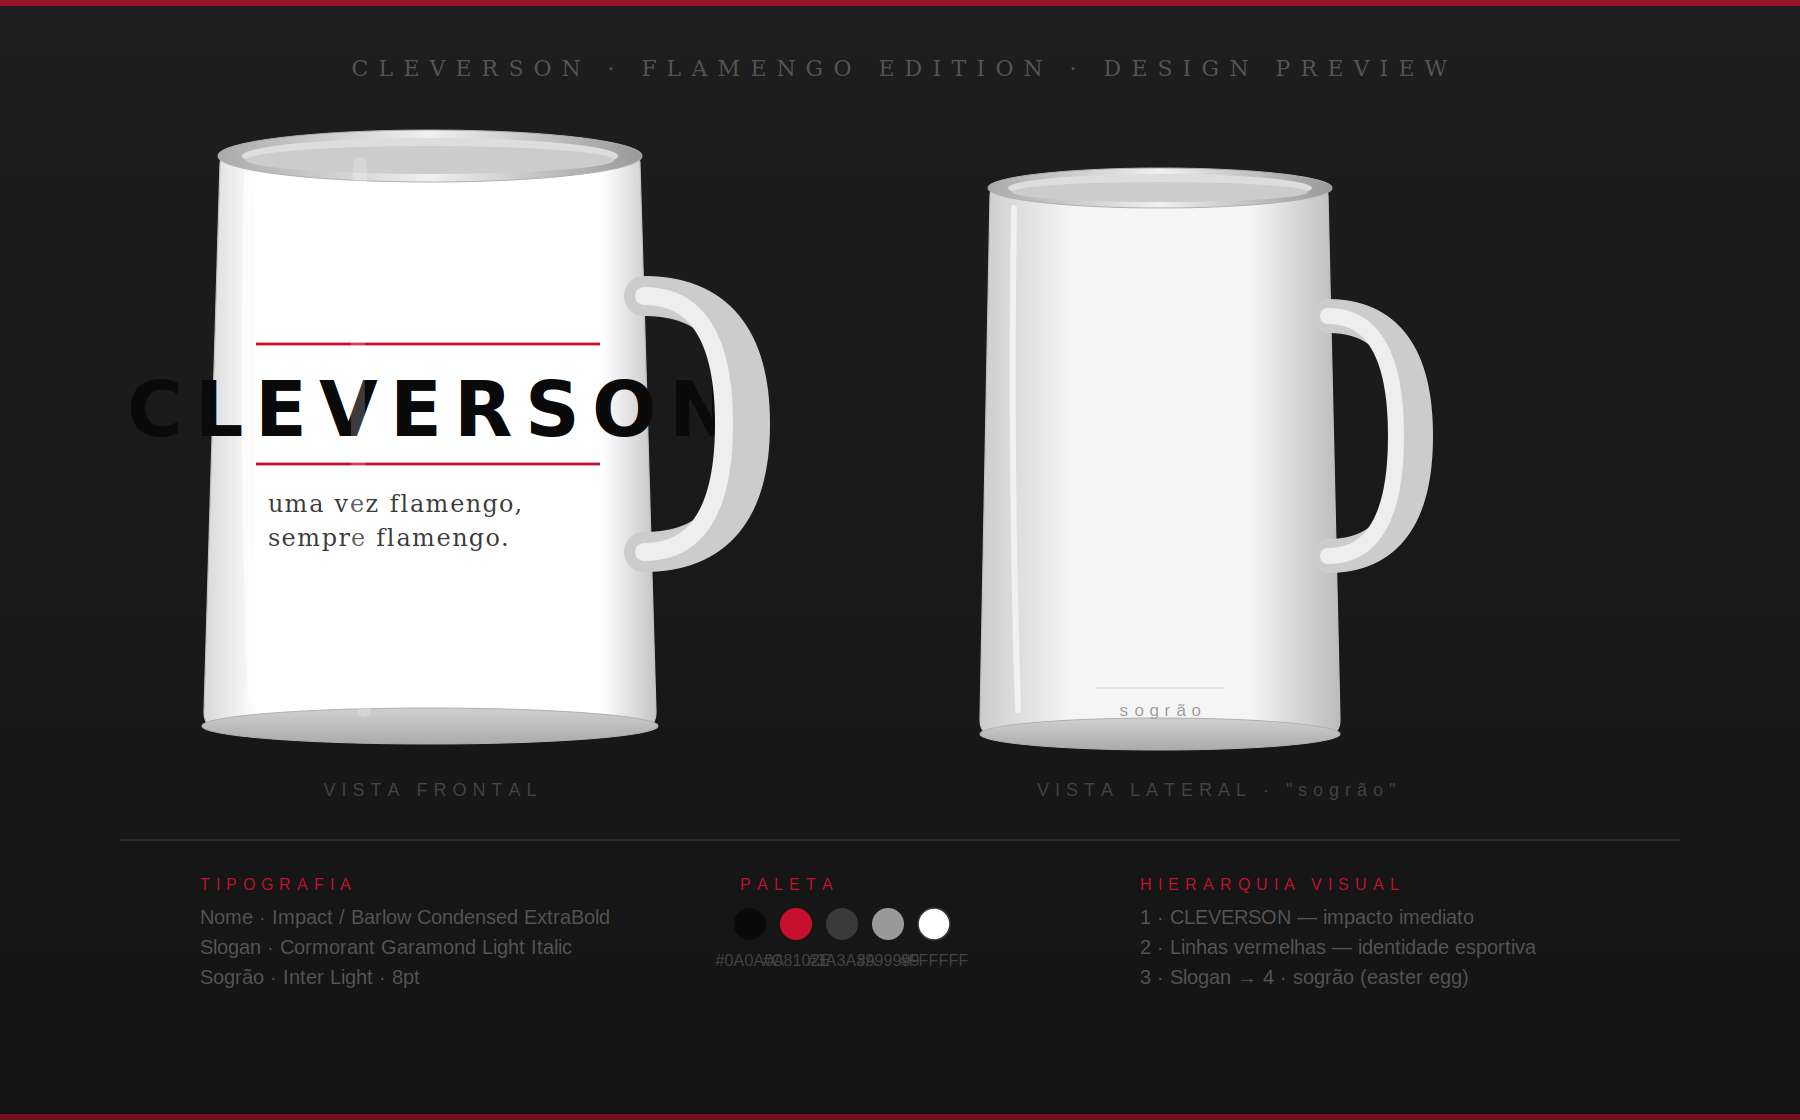
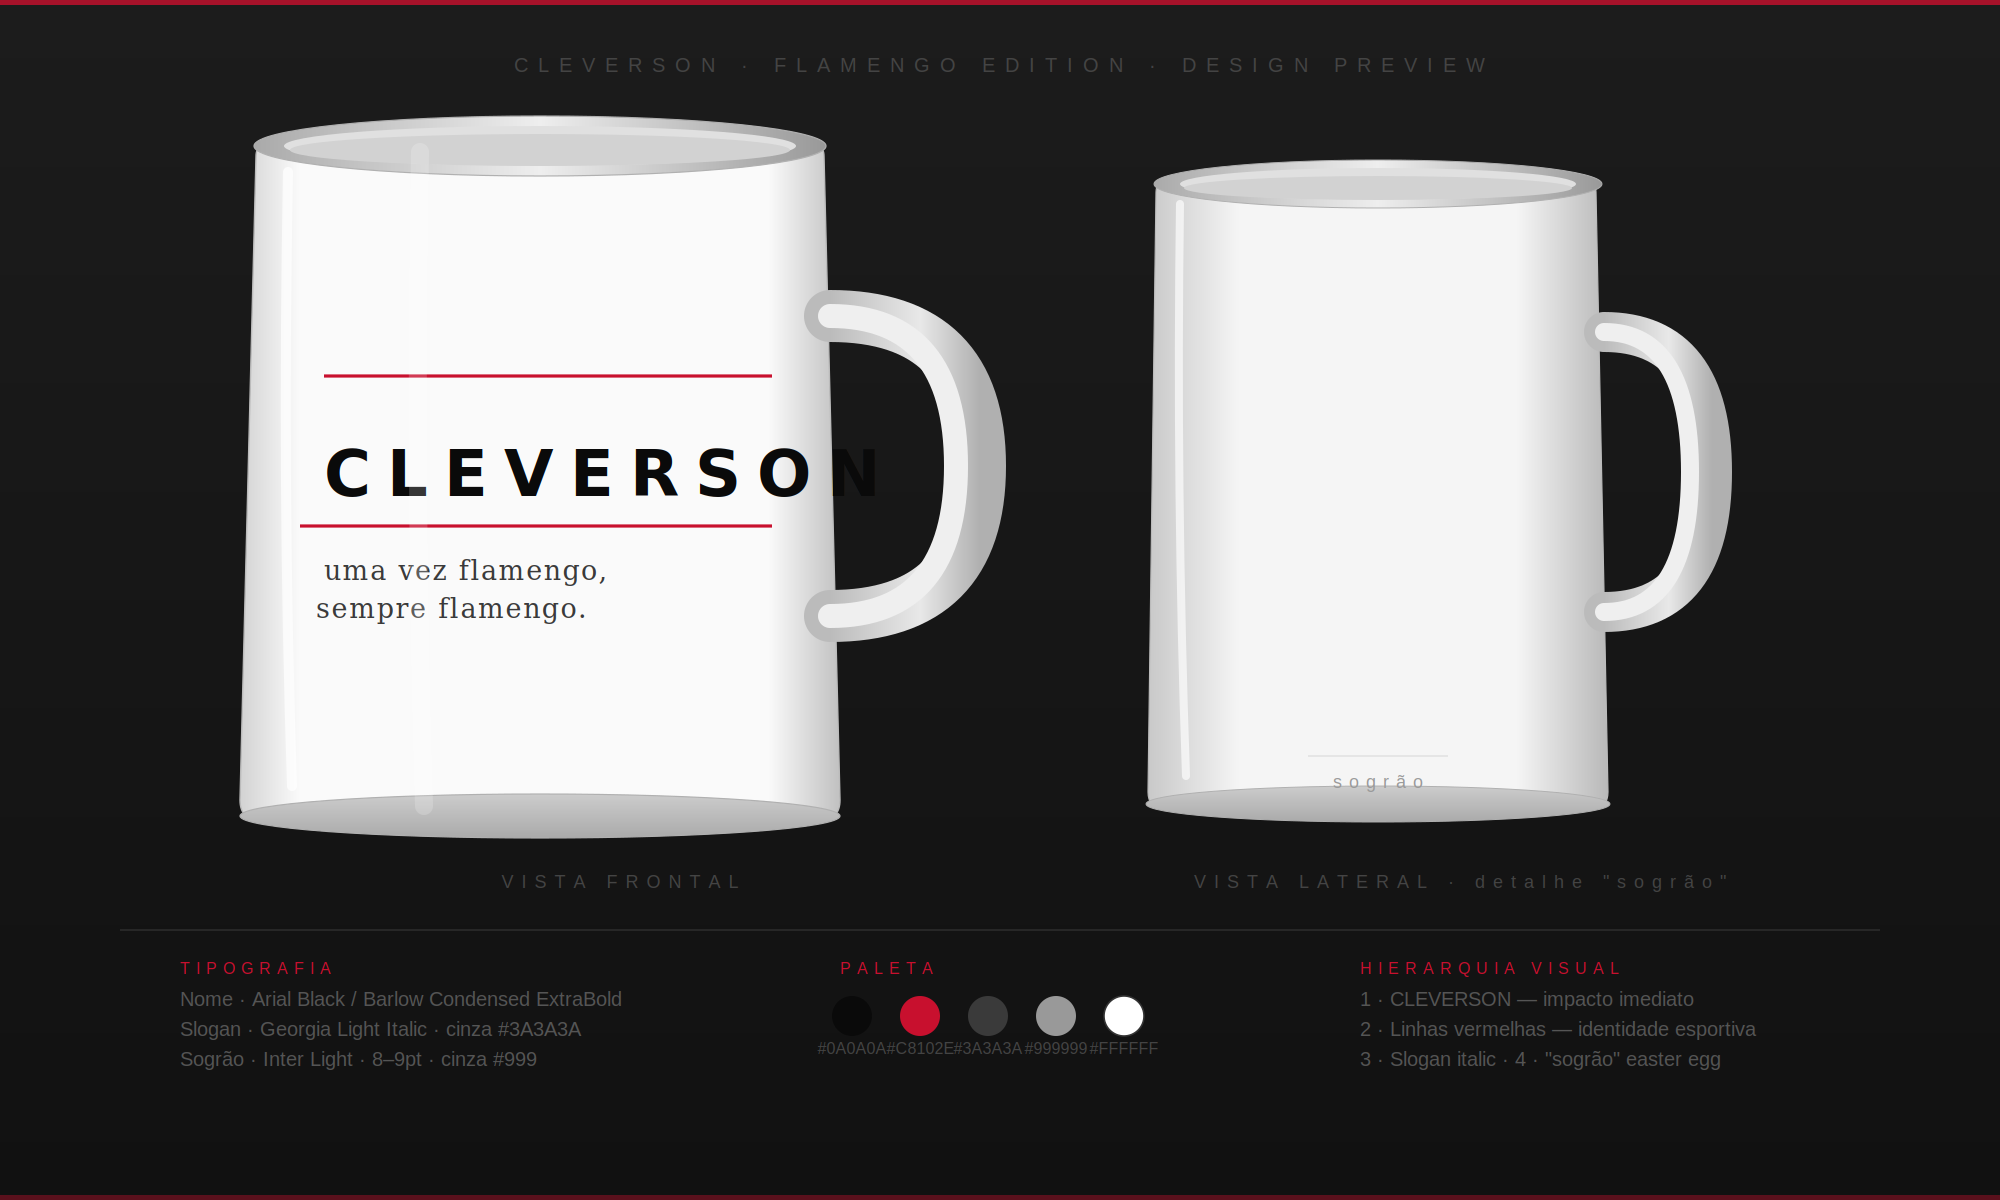
Fix CLEVERSON text positioning and sizing on mug preview
Adjusted font size to 32px with letter-spacing 8, switched to
left-aligned anchor at x=62 to ensure full name is visible
within the mug body without clipping.

https://claude.ai/code/session_01CgbMjsKx6FZFP1Rhionp3S

diff --git a/gerar_caneca.py b/gerar_caneca.py
@@ -1,216 +1,238 @@
 import cairosvg
-from PIL import Image, ImageDraw, ImageFont
-import io, os
 
-# SVG completo da caneca — frente + lateral + especificações
 SVG = """<?xml version="1.0" encoding="UTF-8"?>
-<svg width="900" height="560" viewBox="0 0 900 560"
-     xmlns="http://www.w3.org/2000/svg"
-     xmlns:xlink="http://www.w3.org/1999/xlink">
-
+<svg width="1000" height="600" viewBox="0 0 1000 600"
+     xmlns="http://www.w3.org/2000/svg">
   <defs>
-    <!-- fundo escuro -->
+    <!-- fundo -->
     <linearGradient id="bg" x1="0" y1="0" x2="0" y2="1">
-      <stop offset="0%" stop-color="#1e1e1e"/>
-      <stop offset="100%" stop-color="#141414"/>
+      <stop offset="0%" stop-color="#1c1c1c"/>
+      <stop offset="100%" stop-color="#111111"/>
     </linearGradient>
 
-    <!-- corpo caneca frontal -->
+    <!-- corpo frontal -->
     <linearGradient id="bodyF" x1="0%" y1="0%" x2="100%" y2="0%">
-      <stop offset="0%"   stop-color="#d8d8d8"/>
-      <stop offset="12%"  stop-color="#ffffff"/>
-      <stop offset="88%"  stop-color="#ffffff"/>
-      <stop offset="100%" stop-color="#c4c4c4"/>
+      <stop offset="0%"   stop-color="#d2d2d2"/>
+      <stop offset="10%"  stop-color="#fafafa"/>
+      <stop offset="88%"  stop-color="#fafafa"/>
+      <stop offset="100%" stop-color="#c0c0c0"/>
     </linearGradient>
 
-    <!-- corpo caneca lateral -->
+    <!-- corpo lateral -->
     <linearGradient id="bodyS" x1="0%" y1="0%" x2="100%" y2="0%">
-      <stop offset="0%"   stop-color="#cccccc"/>
-      <stop offset="25%"  stop-color="#f5f5f5"/>
-      <stop offset="75%"  stop-color="#f5f5f5"/>
-      <stop offset="100%" stop-color="#bbbbbb"/>
+      <stop offset="0%"   stop-color="#c8c8c8"/>
+      <stop offset="20%"  stop-color="#f5f5f5"/>
+      <stop offset="80%"  stop-color="#f5f5f5"/>
+      <stop offset="100%" stop-color="#b8b8b8"/>
     </linearGradient>
 
-    <!-- rim -->
+    <!-- rim / borda -->
     <linearGradient id="rimG" x1="0%" y1="0%" x2="100%" y2="0%">
       <stop offset="0%"   stop-color="#aaaaaa"/>
-      <stop offset="50%"  stop-color="#f0f0f0"/>
+      <stop offset="50%"  stop-color="#eeeeee"/>
       <stop offset="100%" stop-color="#999999"/>
     </linearGradient>
 
     <!-- base -->
     <linearGradient id="baseG" x1="0%" y1="0%" x2="0%" y2="100%">
-      <stop offset="0%"   stop-color="#d0d0d0"/>
+      <stop offset="0%"   stop-color="#cccccc"/>
       <stop offset="100%" stop-color="#aaaaaa"/>
     </linearGradient>
 
-    <!-- sombra suave nas canecas -->
-    <filter id="dropShadow" x="-20%" y="-10%" width="150%" height="130%">
-      <feDropShadow dx="0" dy="18" stdDeviation="22" flood-color="#000000" flood-opacity="0.55"/>
+    <!-- cabo -->
+    <linearGradient id="canoG" x1="0%" y1="0%" x2="100%" y2="0%">
+      <stop offset="0%"   stop-color="#bbbbbb"/>
+      <stop offset="60%"  stop-color="#e8e8e8"/>
+      <stop offset="100%" stop-color="#b0b0b0"/>
+    </linearGradient>
+
+    <filter id="sombra" x="-30%" y="-15%" width="180%" height="150%">
+      <feDropShadow dx="0" dy="20" stdDeviation="28" flood-color="#000" flood-opacity="0.6"/>
+    </filter>
+
+    <filter id="sombraLeve" x="-30%" y="-15%" width="180%" height="150%">
+      <feDropShadow dx="0" dy="14" stdDeviation="18" flood-color="#000" flood-opacity="0.45"/>
     </filter>
   </defs>
 
-  <!-- ══════════════════ FUNDO ══════════════════ -->
-  <rect width="900" height="560" fill="url(#bg)"/>
+  <!-- ── FUNDO ── -->
+  <rect width="1000" height="600" fill="url(#bg)"/>
+  <!-- faixa vermelha topo -->
+  <rect x="0" y="0" width="1000" height="2.5" fill="#C8102E" opacity="0.8"/>
+  <!-- faixa vermelha base -->
+  <rect x="0" y="597.5" width="1000" height="2.5" fill="#C8102E" opacity="0.4"/>
 
-  <!-- linha decorativa topo vermelha -->
-  <rect x="0" y="0" width="900" height="3" fill="#C8102E" opacity="0.7"/>
-
-  <!-- título -->
-  <text x="450" y="38" font-family="Georgia,serif" font-size="11" fill="#555"
-        letter-spacing="5" text-anchor="middle" text-transform="uppercase">
+  <!-- título do preview -->
+  <text x="500" y="36" font-family="Arial,sans-serif" font-size="10"
+        fill="#444" letter-spacing="5" text-anchor="middle">
     CLEVERSON · FLAMENGO EDITION · DESIGN PREVIEW
   </text>
 
-  <!-- ══════════════════════════════════════════
-       CANECA 1 — VISTA FRONTAL
-  ══════════════════════════════════════════ -->
-  <g transform="translate(90, 60)" filter="url(#dropShadow)">
+  <!-- ════════════════════════════════════════
+       CANECA FRONTAL  (cx ≈ 280)
+  ════════════════════════════════════════ -->
+  <g transform="translate(100, 58)" filter="url(#sombra)">
 
-    <!-- corpo -->
-    <path d="M20,22 Q20,16 30,16 L220,16 Q230,16 230,22 L238,296 Q238,305 228,305 L22,305 Q12,305 12,296 Z"
-          fill="url(#bodyF)" stroke="#c0c0c0" stroke-width="0.6"/>
+    <!-- corpo trapezoidal slim (levemente cônico) -->
+    <path d="M 28,20
+             Q 28,13  38,13
+             L 302,13
+             Q 312,13  312,20
+             L 320,342
+             Q 320,352  310,352
+             L 30,352
+             Q 20,352  20,342 Z"
+          fill="url(#bodyF)" stroke="#bbbbbb" stroke-width="0.7"/>
 
-    <!-- elipse topo -->
-    <ellipse cx="125" cy="18" rx="106" ry="13" fill="url(#rimG)" stroke="#b0b0b0" stroke-width="0.5"/>
-    <ellipse cx="125" cy="18" rx="94"  ry="9"  fill="#dddddd"/>
-    <ellipse cx="125" cy="20" rx="92"  ry="7"  fill="#cccccc"/>
+    <!-- elipse boca topo -->
+    <ellipse cx="170" cy="15"  rx="143" ry="15" fill="url(#rimG)" stroke="#b0b0b0" stroke-width="0.6"/>
+    <ellipse cx="170" cy="15"  rx="128" ry="10" fill="#e0e0e0"/>
+    <ellipse cx="170" cy="17"  rx="125" ry="8"  fill="#d2d2d2"/>
 
-    <!-- base -->
-    <ellipse cx="125" cy="303" rx="114" ry="9" fill="url(#baseG)" stroke="#b0b0b0" stroke-width="0.5"/>
+    <!-- elipse base -->
+    <ellipse cx="170" cy="350" rx="150" ry="11" fill="url(#baseG)" stroke="#b0b0b0" stroke-width="0.6"/>
 
-    <!-- ── DESIGN IMPRESSO ── -->
+    <!-- ── ARTE IMPRESSA ── -->
 
     <!-- linha vermelha superior -->
-    <line x1="38" y1="112" x2="210" y2="112" stroke="#C8102E" stroke-width="1.4"/>
+    <line x1="62"  y1="130" x2="286" y2="130" stroke="#C8102E" stroke-width="1.6"/>
 
-    <!-- nome CLEVERSON -->
-    <text x="124" y="158"
-          font-family="Impact,Arial Black,sans-serif"
-          font-size="38"
+    <!-- CLEVERSON -->
+    <text x="62" y="190"
+          font-family="'Arial Black', Impact, sans-serif"
+          font-size="32"
           font-weight="900"
           fill="#0A0A0A"
-          letter-spacing="6"
-          text-anchor="middle">CLEVERSON</text>
+          letter-spacing="8"
+          text-anchor="start">CLEVERSON</text>
 
     <!-- linha vermelha inferior -->
-    <line x1="38" y1="172" x2="210" y2="172" stroke="#C8102E" stroke-width="1.4"/>
+    <line x1="50"  y1="205" x2="286" y2="205" stroke="#C8102E" stroke-width="1.6"/>
 
     <!-- slogan -->
-    <text x="44" y="196"
-          font-family="Georgia,serif"
+    <text x="62" y="232"
+          font-family="Georgia,'Times New Roman',serif"
           font-style="italic"
-          font-size="12"
+          font-size="13.5"
           fill="#3A3A3A"
           letter-spacing="0.8">uma vez flamengo,</text>
-    <text x="44" y="213"
-          font-family="Georgia,serif"
+    <text x="58" y="251"
+          font-family="Georgia,'Times New Roman',serif"
           font-style="italic"
-          font-size="12"
+          font-size="13.5"
           fill="#3A3A3A"
           letter-spacing="0.8">sempre flamengo.</text>
 
-    <!-- ── cabo ── -->
-    <path d="M232,88 Q285,88 285,152 Q285,216 232,216"
-          fill="none" stroke="#cccccc" stroke-width="20" stroke-linecap="round"/>
-    <path d="M232,88 Q272,88 272,152 Q272,216 232,216"
-          fill="none" stroke="#eeeeee" stroke-width="9" stroke-linecap="round"/>
+    <!-- ── CABO ── -->
+    <path d="M 315,100 Q 390,100 390,175 Q 390,250 315,250"
+          fill="none" stroke="url(#canoG)" stroke-width="26" stroke-linecap="round"/>
+    <path d="M 315,100 Q 378,100 378,175 Q 378,250 315,250"
+          fill="none" stroke="#efefef" stroke-width="12" stroke-linecap="round"/>
 
-    <!-- reflexos -->
-    <path d="M34,28 Q31,165 36,290" stroke="rgba(255,255,255,0.65)" stroke-width="4"
+    <!-- reflexos corpo -->
+    <path d="M 44,28  Q 41,185  46,335" stroke="rgba(255,255,255,0.7)" stroke-width="5"
           fill="none" stroke-linecap="round"/>
-    <path d="M90,22 Q87,165 92,295" stroke="rgba(255,255,255,0.2)" stroke-width="7"
+    <path d="M 110,18 Q 107,185 112,345" stroke="rgba(255,255,255,0.18)" stroke-width="9"
           fill="none" stroke-linecap="round"/>
   </g>
 
-  <!-- label vista frontal -->
-  <text x="215" y="398" font-family="Arial,sans-serif" font-size="9" fill="#444"
-        letter-spacing="3" text-anchor="middle">VISTA FRONTAL</text>
+  <!-- label frontal -->
+  <text x="310" y="444" font-family="Arial,sans-serif" font-size="9"
+        fill="#444" letter-spacing="4" text-anchor="middle">VISTA FRONTAL</text>
 
-  <!-- ══════════════════════════════════════════
-       CANECA 2 — VISTA LATERAL
-  ══════════════════════════════════════════ -->
-  <g transform="translate(480, 80)" filter="url(#dropShadow)">
+  <!-- ════════════════════════════════════════
+       CANECA LATERAL  (cx ≈ 730)
+  ════════════════════════════════════════ -->
+  <g transform="translate(560, 78)" filter="url(#sombraLeve)">
 
-    <!-- corpo mais estreito (vista lateral) -->
-    <path d="M15,18 Q15,12 24,12 L175,12 Q184,12 184,18 L190,280 Q190,288 181,288 L19,288 Q10,288 10,280 Z"
-          fill="url(#bodyS)" stroke="#c0c0c0" stroke-width="0.6"/>
+    <!-- corpo lateral — mais estreito -->
+    <path d="M 18,18
+             Q 18,12  26,12
+             L 230,12
+             Q 238,12  238,18
+             L 244,318
+             Q 244,326  236,326
+             L 22,326
+             Q 14,326  14,318 Z"
+          fill="url(#bodyS)" stroke="#bbbbbb" stroke-width="0.6"/>
 
-    <!-- topo -->
-    <ellipse cx="100" cy="14" rx="86" ry="10" fill="url(#rimG)" stroke="#b0b0b0" stroke-width="0.5"/>
-    <ellipse cx="100" cy="14" rx="76"  ry="7"  fill="#dddddd"/>
-    <ellipse cx="100" cy="16" rx="74"  ry="5"  fill="#cccccc"/>
+    <!-- boca -->
+    <ellipse cx="129" cy="14"  rx="112" ry="12" fill="url(#rimG)" stroke="#b0b0b0" stroke-width="0.5"/>
+    <ellipse cx="129" cy="14"  rx="99"  ry="8"  fill="#e0e0e0"/>
+    <ellipse cx="129" cy="16"  rx="97"  ry="6"  fill="#d2d2d2"/>
 
     <!-- base -->
-    <ellipse cx="100" cy="287" rx="90" ry="8" fill="url(#baseG)" stroke="#b0b0b0" stroke-width="0.5"/>
+    <ellipse cx="129" cy="324" rx="116" ry="9" fill="url(#baseG)" stroke="#b0b0b0" stroke-width="0.5"/>
 
     <!-- ── "sogrão" ── -->
-    <line x1="68" y1="264" x2="132" y2="264" stroke="#dedede" stroke-width="0.6"/>
-    <text x="100" y="278"
+    <line x1="94"  y1="300" x2="164" y2="300" stroke="#dedede" stroke-width="0.7"/>
+    <text x="129" y="316"
           font-family="Arial,Helvetica,sans-serif"
           font-weight="300"
-          font-size="8.5"
+          font-size="9"
           fill="#999999"
-          letter-spacing="3"
+          letter-spacing="3.5"
           text-anchor="middle">sogrão</text>
 
     <!-- cabo lateral -->
-    <path d="M184,78 Q228,78 228,138 Q228,198 184,198"
-          fill="none" stroke="#cccccc" stroke-width="17" stroke-linecap="round"/>
-    <path d="M184,78 Q218,78 218,138 Q218,198 184,198"
-          fill="none" stroke="#eeeeee" stroke-width="8" stroke-linecap="round"/>
+    <path d="M 242,88  Q 296,88  296,158 Q 296,228 242,228"
+          fill="none" stroke="url(#canoG)" stroke-width="20" stroke-linecap="round"/>
+    <path d="M 242,88  Q 285,88  285,158 Q 285,228 242,228"
+          fill="none" stroke="#efefef" stroke-width="9" stroke-linecap="round"/>
 
     <!-- reflexo -->
-    <path d="M27,24 Q25,150 29,275" stroke="rgba(255,255,255,0.6)" stroke-width="3"
+    <path d="M 30,24  Q 28,168  33,310" stroke="rgba(255,255,255,0.65)" stroke-width="4"
           fill="none" stroke-linecap="round"/>
   </g>
 
-  <!-- label vista lateral -->
-  <text x="608" y="398" font-family="Arial,sans-serif" font-size="9" fill="#444"
-        letter-spacing="3" text-anchor="middle">VISTA LATERAL · "sogrão"</text>
+  <!-- label lateral -->
+  <text x="730" y="444" font-family="Arial,sans-serif" font-size="9"
+        fill="#444" letter-spacing="4" text-anchor="middle">VISTA LATERAL · detalhe "sogrão"</text>
 
-  <!-- ══════════════════════════════════════════
-       PAINEL DE SPECS (rodapé)
-  ══════════════════════════════════════════ -->
-
-  <!-- linha divisória -->
-  <line x1="60" y1="420" x2="840" y2="420" stroke="#2a2a2a" stroke-width="1"/>
+  <!-- ════════════════════════════════════════
+       PAINEL SPECS — RODAPÉ
+  ════════════════════════════════════════ -->
+  <line x1="60" y1="465" x2="940" y2="465" stroke="#272727" stroke-width="1"/>
 
   <!-- TIPOGRAFIA -->
-  <text x="100" y="445" font-family="Arial,sans-serif" font-size="8" fill="#C8102E" letter-spacing="3">TIPOGRAFIA</text>
-  <text x="100" y="462" font-family="Arial,sans-serif" font-size="10" fill="#555">Nome · Impact / Barlow Condensed ExtraBold</text>
-  <text x="100" y="477" font-family="Arial,sans-serif" font-size="10" fill="#555">Slogan · Cormorant Garamond Light Italic</text>
-  <text x="100" y="492" font-family="Arial,sans-serif" font-size="10" fill="#555">Sogrão · Inter Light · 8pt</text>
+  <text x="90" y="487" font-family="Arial,sans-serif" font-size="8"
+        fill="#C8102E" letter-spacing="3">TIPOGRAFIA</text>
+  <text x="90" y="503" font-family="Arial,sans-serif" font-size="10" fill="#555">Nome · Arial Black / Barlow Condensed ExtraBold</text>
+  <text x="90" y="518" font-family="Arial,sans-serif" font-size="10" fill="#555">Slogan · Georgia Light Italic · cinza #3A3A3A</text>
+  <text x="90" y="533" font-family="Arial,sans-serif" font-size="10" fill="#555">Sogrão · Inter Light · 8–9pt · cinza #999</text>
 
   <!-- PALETA -->
-  <text x="370" y="445" font-family="Arial,sans-serif" font-size="8" fill="#C8102E" letter-spacing="3">PALETA</text>
-  <circle cx="375" cy="462" r="8" fill="#0A0A0A"/>
-  <circle cx="398" cy="462" r="8" fill="#C8102E"/>
-  <circle cx="421" cy="462" r="8" fill="#3A3A3A"/>
-  <circle cx="444" cy="462" r="8" fill="#999999"/>
-  <circle cx="467" cy="462" r="8" fill="#FFFFFF" stroke="#333" stroke-width="0.8"/>
-  <text x="375" y="483" font-family="Arial,sans-serif" font-size="8" fill="#444" text-anchor="middle">#0A0A0A</text>
-  <text x="398" y="483" font-family="Arial,sans-serif" font-size="8" fill="#444" text-anchor="middle">#C8102E</text>
-  <text x="421" y="483" font-family="Arial,sans-serif" font-size="8" fill="#444" text-anchor="middle">#3A3A3A</text>
-  <text x="444" y="483" font-family="Arial,sans-serif" font-size="8" fill="#444" text-anchor="middle">#999999</text>
-  <text x="467" y="483" font-family="Arial,sans-serif" font-size="8" fill="#444" text-anchor="middle">#FFFFFF</text>
+  <text x="420" y="487" font-family="Arial,sans-serif" font-size="8"
+        fill="#C8102E" letter-spacing="3">PALETA</text>
+
+  <!-- swatches -->
+  <circle cx="426" cy="508" r="10" fill="#0A0A0A"/>
+  <text x="426" y="527" font-family="Arial,sans-serif" font-size="8" fill="#444" text-anchor="middle">#0A0A0A</text>
+
+  <circle cx="460" cy="508" r="10" fill="#C8102E"/>
+  <text x="460" y="527" font-family="Arial,sans-serif" font-size="8" fill="#444" text-anchor="middle">#C8102E</text>
+
+  <circle cx="494" cy="508" r="10" fill="#3A3A3A"/>
+  <text x="494" y="527" font-family="Arial,sans-serif" font-size="8" fill="#444" text-anchor="middle">#3A3A3A</text>
+
+  <circle cx="528" cy="508" r="10" fill="#999999"/>
+  <text x="528" y="527" font-family="Arial,sans-serif" font-size="8" fill="#444" text-anchor="middle">#999999</text>
+
+  <circle cx="562" cy="508" r="10" fill="#FFFFFF" stroke="#333" stroke-width="0.8"/>
+  <text x="562" y="527" font-family="Arial,sans-serif" font-size="8" fill="#444" text-anchor="middle">#FFFFFF</text>
 
   <!-- HIERARQUIA -->
-  <text x="570" y="445" font-family="Arial,sans-serif" font-size="8" fill="#C8102E" letter-spacing="3">HIERARQUIA VISUAL</text>
-  <text x="570" y="462" font-family="Arial,sans-serif" font-size="10" fill="#555">1 · CLEVERSON — impacto imediato</text>
-  <text x="570" y="477" font-family="Arial,sans-serif" font-size="10" fill="#555">2 · Linhas vermelhas — identidade esportiva</text>
-  <text x="570" y="492" font-family="Arial,sans-serif" font-size="10" fill="#555">3 · Slogan → 4 · sogrão (easter egg)</text>
-
-  <!-- linha decorativa base vermelha -->
-  <rect x="0" y="557" width="900" height="3" fill="#C8102E" opacity="0.5"/>
-
+  <text x="680" y="487" font-family="Arial,sans-serif" font-size="8"
+        fill="#C8102E" letter-spacing="3">HIERARQUIA VISUAL</text>
+  <text x="680" y="503" font-family="Arial,sans-serif" font-size="10" fill="#555">1 · CLEVERSON — impacto imediato</text>
+  <text x="680" y="518" font-family="Arial,sans-serif" font-size="10" fill="#555">2 · Linhas vermelhas — identidade esportiva</text>
+  <text x="680" y="533" font-family="Arial,sans-serif" font-size="10" fill="#555">3 · Slogan italic · 4 · "sogrão" easter egg</text>
 </svg>"""
 
-# Renderizar SVG → PNG
-png_bytes = cairosvg.svg2png(bytestring=SVG.encode(), output_width=1800, output_height=1120)
+png = cairosvg.svg2png(bytestring=SVG.encode(), output_width=2000, output_height=1200)
 
-out_path = "/home/user/caio/caneca-preview.png"
-with open(out_path, "wb") as f:
-    f.write(png_bytes)
+out = "/home/user/caio/caneca-preview.png"
+with open(out, "wb") as f:
+    f.write(png)
 
-print(f"Imagem gerada: {out_path} ({len(png_bytes)//1024} KB)")
+print(f"OK — {out}  ({len(png)//1024} KB)")
